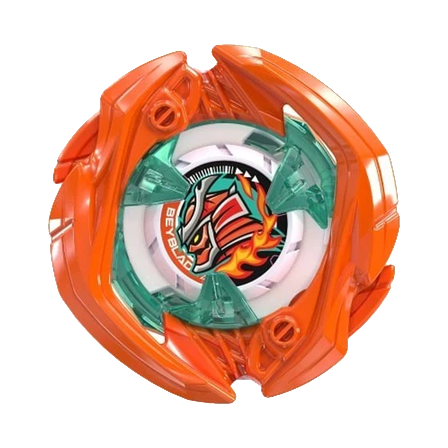
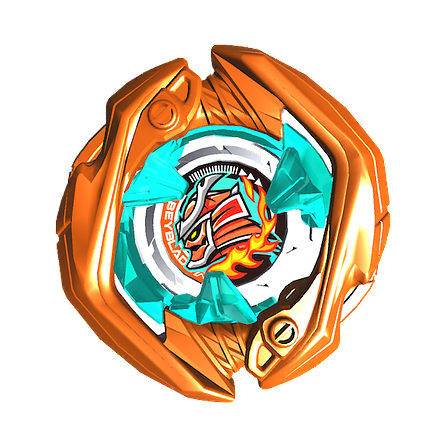
Sharpen UX-00 Warrior Saber front image

diff --git a/index.html b/index.html
@@ -484,14 +484,14 @@
         "#app/services": "./src/app-services.js?v=20260714-scroll-affordance-overlay",
         "#app/markup-core": "./src/markup-core.js?v=20260714-scroll-affordance-overlay",
         "#app/anime-core": "./src/anime-core.js?v=20260720-burst-airdate-notes",
-        "#app/data-store": "./src/data-store.js?v=20260811-x-warrior-saber-front",
+        "#app/data-store": "./src/data-store.js?v=20260811-x-warrior-saber-front-hd",
         "#app/search-data-decoder": "./src/search-data-decoder.js?v=20260720-burst-airdate-notes",
         "#app/ui-core": "./src/ui-core.js?v=20260731-mobile-highlight-fix",
         "#app/release-core": "./src/release-core.js?v=20260731-mobile-highlight-fix",
         "#app/scroll-affordance": "./src/scroll-affordance.js?v=20260719-dropdown-shadow-mounted-label",
         "#app/search-core": "./src/search-core.js?v=20260717-dead-code-cleanup",
         "#app/search-engine": "./src/search-engine.js?v=20260731-mobile-highlight-fix",
-        "#app/catalog-model": "./src/catalog-model.js?v=20260811-x-warrior-saber-front",
+        "#app/catalog-model": "./src/catalog-model.js?v=20260811-x-warrior-saber-front-hd",
         "#app/collection-view": "./src/collection-view.js?v=20260731-mobile-highlight-fix",
         "#app/catalog-view": "./src/catalog-view.js?v=20260717-dead-code-cleanup",
         "#app/route-parser": "./src/route-parser.js?v=20260714-scroll-affordance-overlay",
@@ -500,7 +500,7 @@
         "#app/search-controller": "./src/search-controller.js?v=20260714-scroll-affordance-overlay",
         "#app/search-help-controller": "./src/search-help-controller.js?v=20260717-dead-code-cleanup",
         "#app/detail-view": "./src/detail-view.js?v=20260803-modal-tag-wheel-edge",
-        "#app/image-preview": "./src/image-preview.js?v=20260811-x-warrior-saber-front",
+        "#app/image-preview": "./src/image-preview.js?v=20260811-x-warrior-saber-front-hd",
         "#app/modal-context": "./src/modal-context.js?v=20260714-scroll-affordance-overlay",
         "#app/style-loader": "./src/style-loader.js?v=20260804-mobile-modal-scrollbar-centering",
         "#app/feature-loaders": "./src/feature-loaders.js?v=20260717-dead-code-cleanup",

diff --git a/src/data-store.js b/src/data-store.js
@@ -8,7 +8,7 @@ const bookItems = [];
 const gameItems = [];
 const animeInfo = { title: "", overview: [], characters: [], episodes: [] };
 const searchIndexItems = [];
-const X_ASSET_CACHE_VERSION = "20260811-x-warrior-saber-front";
+const X_ASSET_CACHE_VERSION = "20260811-x-warrior-saber-front-hd";
 
 const versionAssetUrl = source => {
   const value = String(source || "");

diff --git a/scripts/normalize-x-bey-front-images.py b/scripts/normalize-x-bey-front-images.py
@@ -16,7 +16,7 @@ from PIL import Image
 
 CONFIG_PATH = Path("data/source/x-bey-primary-images.json")
 ANGLE_CONFIG_PATH = Path("data/source/x-bey-angle-corrections.json")
-CONFIG_VERSION = "20260811-x-warrior-saber-front"
+CONFIG_VERSION = "20260811-x-warrior-saber-front-hd"
 CANVAS_SIZE = 448
 TARGET_FOREGROUND_SIZE = 360
 ALPHA_THRESHOLD = 3

diff --git a/scripts/record-x-image-alpha-review.py b/scripts/record-x-image-alpha-review.py
@@ -14,7 +14,7 @@ from PIL import Image
 CANVAS_SIZE = 448
 MIN_MARGIN = 6
 MAX_FOREGROUND_SIZE = CANVAS_SIZE - MIN_MARGIN * 2
-REVIEW_VERSION = "20260811-x-warrior-saber-front"
+REVIEW_VERSION = "20260811-x-warrior-saber-front-hd"
 
 
 def parse_args() -> argparse.Namespace:

diff --git a/scripts/build-x-bey-angle-corrections.py b/scripts/build-x-bey-angle-corrections.py
@@ -115,7 +115,7 @@ SUPPLIED_FRONT_IDS = {
     "BEY-X-UX-19-BULLET-GRIFFON-H",
     "BEY-X-UX-20-GLORY-VALKYRIE-LF",
 }
-CONFIG_VERSION = "20260811-x-warrior-saber-front"
+CONFIG_VERSION = "20260811-x-warrior-saber-front-hd"
 
 
 def parse_args() -> argparse.Namespace:
